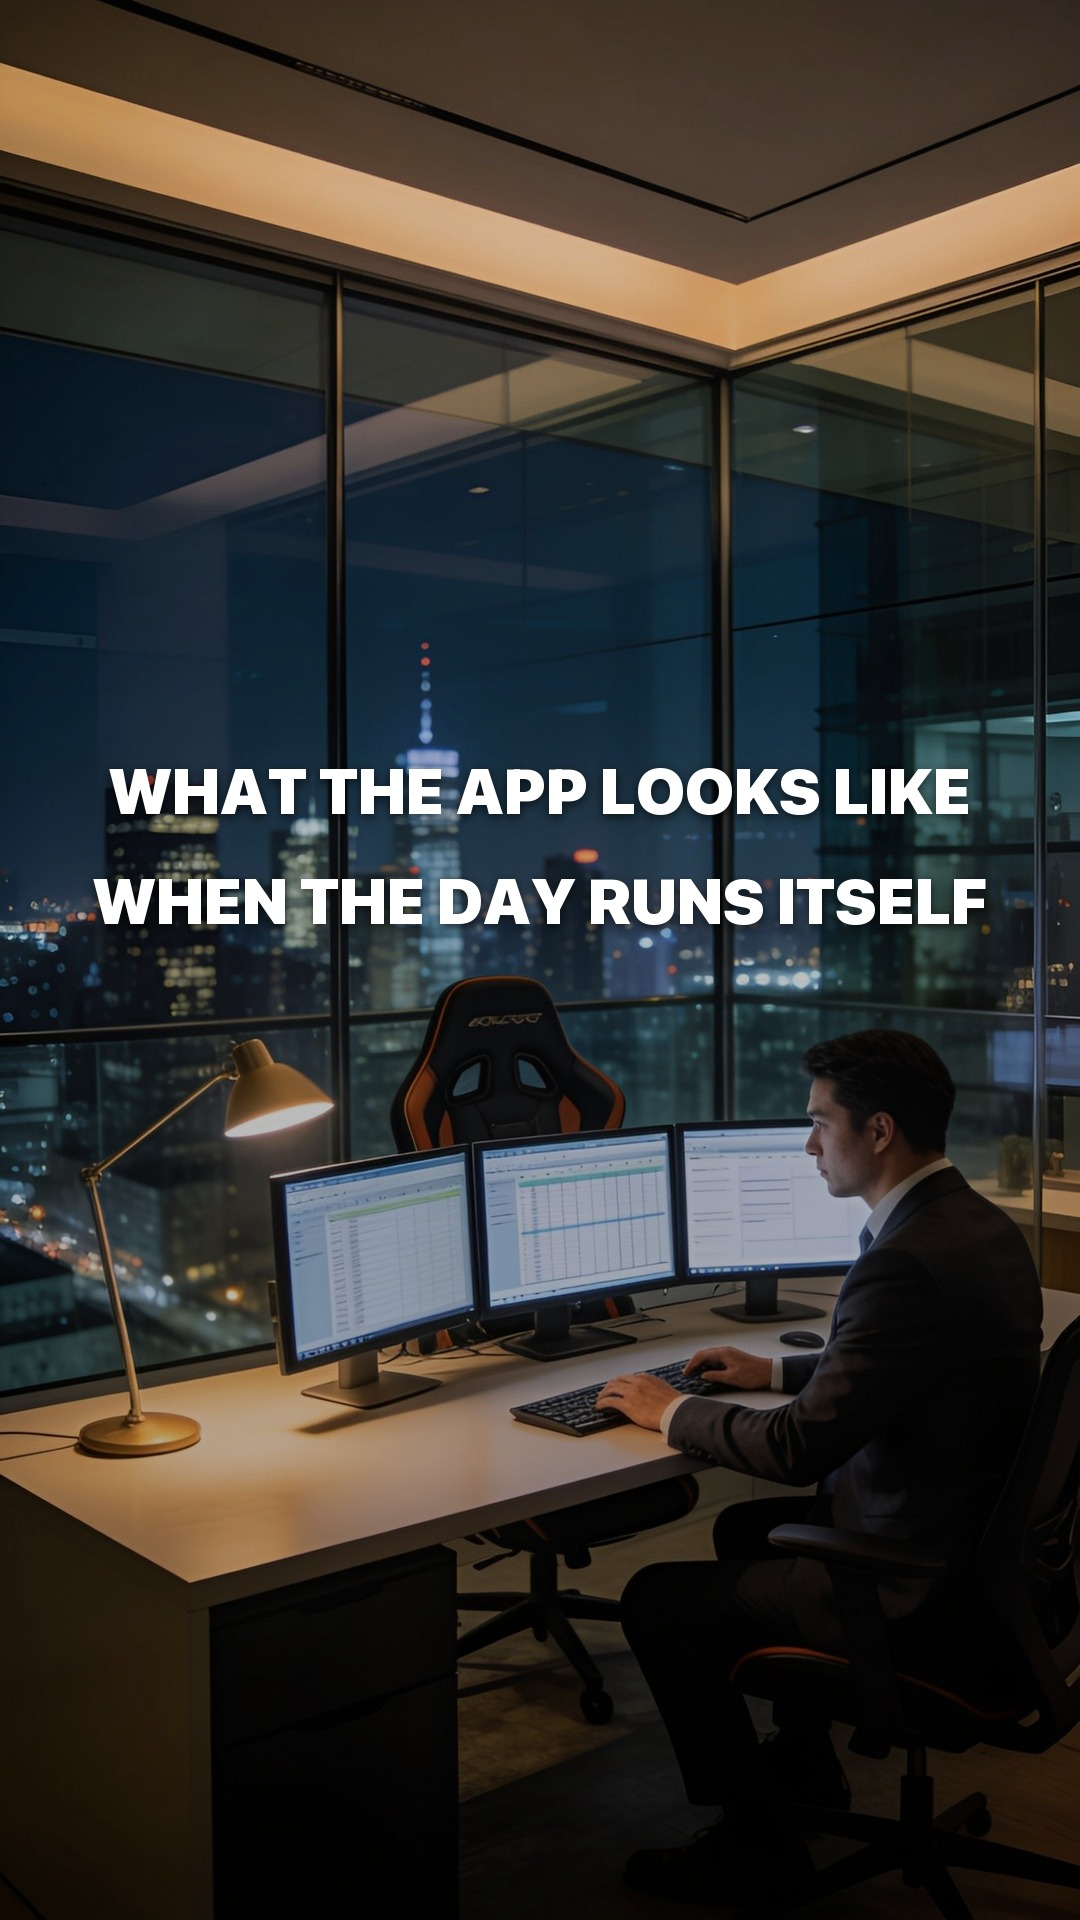
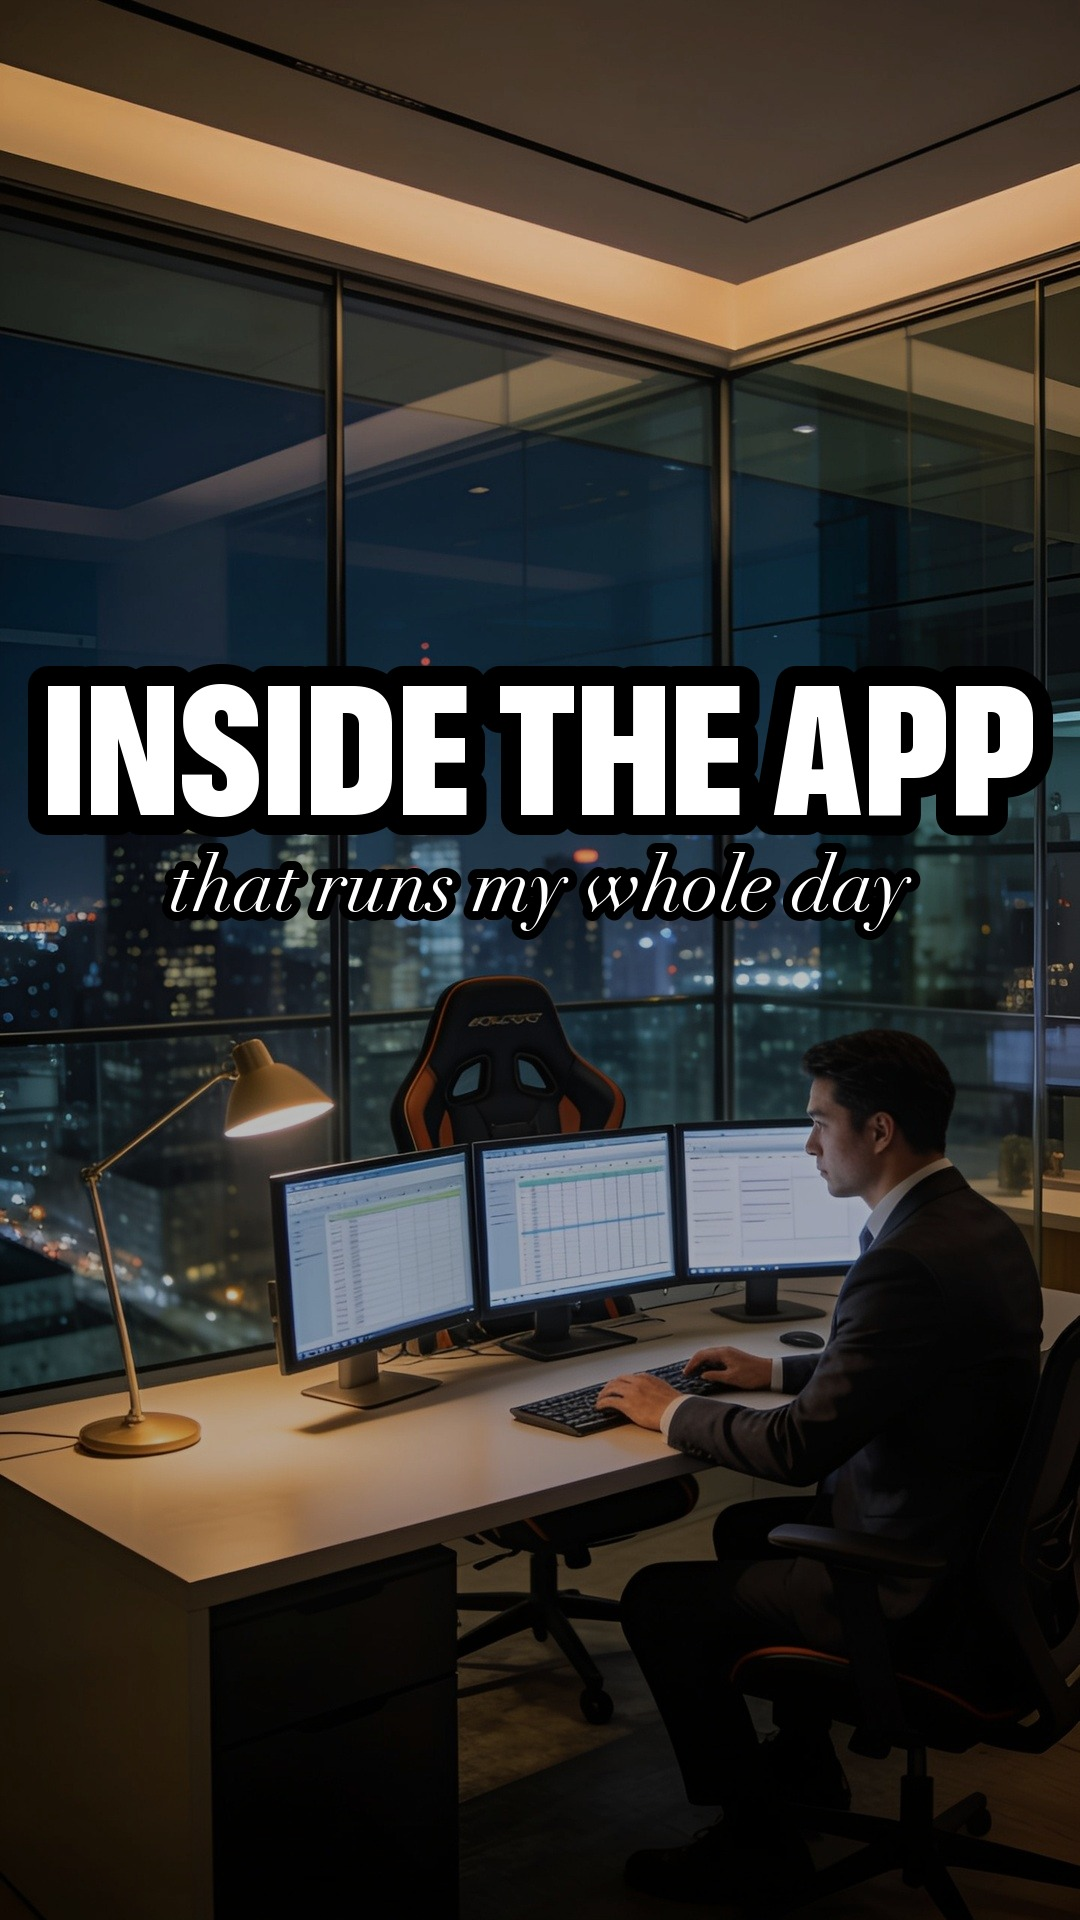
hooks: compressed display type, four rotating styles
SF Black is a UI weight and reads as a blown-up system label. Hooks now use
the Compressed/Condensed cuts with a heavy stroke, a hard size jump between
subject and qualifier, and an accent colour, in four rotating styles.

Claude-Session: https://claude.ai/code/session_018WcmYQJRQqBfrRpJzu76Jc

Changed region(s): [[0.0, 0.3438, 0.9778, 0.5]]

diff --git a/tools/compose.py b/tools/compose.py
@@ -1,3 +1,5 @@
+YELLOW = (255, 214, 10)
+WHITE = (255, 255, 255)
 #!/usr/bin/env python3
 """Slide-composition helpers for the TikTok pipeline (see the tiktok-pipeline skill).
 Backgrounds in tools/slides/bg (BANDS maps caption zones needing inpainting;
@@ -121,23 +123,102 @@ def base_photo(name, grad):
     gradient_darken(im, *grad)
     return im
 
-def hook_slide(bg, lines, out, grad=(0.85, 0.72, 300, 1300)):
-    """Hook text is UPPERCASE: the first slide has to stop a thumb, and
-    lowercase at this size reads as a caption rather than a headline."""
-    im = base_photo(bg, grad)
-    im = frame_for_band(im, 690, 1000)
-    adaptive_scrim(im, 690, 1000)
-    lines = [l.upper() for l in lines]
-    hf = fit_font(max(lines, key=len), 'Black', 80, max_width=900)
-    items = [(540, 790, lines[0], hf, 'mm', (255, 255, 255)),
-             (540, 900, lines[1], hf, 'mm', (255, 255, 255))]
-    draw_text_block(im, items)
-    im.save(out, quality=92)
-    print('wrote', out)
+# ---------------------------------------------------------------- hook slides
+#
+# The first slide has one job: stop a thumb. Flat one-size centred text does
+# not do that. Every style here uses the three things the best-performing
+# hooks share: a size jump between the subject and its qualifier, a heavy
+# black stroke so the words read on any photo, and a colour accent on the
+# part that carries the promise.
 
-# TikTok overlays its own UI on a photo post: search bar across the top ~12%,
-# caption and username across the bottom ~28%, action buttons down the right
-# ~15%. Copy therefore lives in the middle band, left of x=945.
+HOOK_STYLES = ('stack', 'highlight', 'boxed', 'serif')
+
+
+def _stroked(d, xy, text, f, fill, anchor, stroke=14, stroke_fill=(0, 0, 0)):
+    d.text(xy, text, font=f, fill=fill, anchor=anchor,
+           stroke_width=stroke, stroke_fill=stroke_fill)
+
+
+DIDOT = '/System/Library/Fonts/Supplemental/Didot.ttc'
+
+
+def display_font(size, variation='Compressed Black'):
+    """Heavy compressed display type.
+
+    SF's default Black is a UI weight: wide, evenly spaced, and it reads as a
+    system label blown up. The compressed cuts are the ones that look like
+    display type on a photo, which is what every high-performing hook uses.
+    """
+    f = ImageFont.truetype(SF, size)
+    f.set_variation_by_name(variation)
+    return f
+
+
+def serif_font(size, index=1):
+    return ImageFont.truetype(DIDOT, size, index=index)
+
+
+def _fit(text, variation, start, max_width=930, floor=40, maker=None):
+    maker = maker or (lambda sz: display_font(sz, variation))
+    size = start
+    probe = ImageDraw.Draw(Image.new('RGB', (1, 1)))
+    while size > floor:
+        f = maker(size)
+        if probe.textlength(text, font=f) <= max_width:
+            return f
+        size -= 3
+    return maker(floor)
+
+
+def hook_slide(bg, lines, out, grad=(0.85, 0.72, 300, 1300), style=None,
+               accent=YELLOW):
+    """lines[0] = the big subject, lines[1] = the smaller qualifier."""
+    im = base_photo(bg, grad)
+    im = frame_for_band(im, 690, 1060)
+    adaptive_scrim(im, 660, 1080, target=104)
+    if style is None:
+        style = HOOK_STYLES[sum(ord(c) for c in bg) % len(HOOK_STYLES)]
+    big, small = lines[0].upper(), lines[1]
+    d = ImageDraw.Draw(im)
+
+    # The subject runs edge to edge; the qualifier is roughly 40% of its
+    # height. That ratio is what makes the hook readable at thumb speed.
+    # Compressed display type, set large: the subject fills the width, the
+    # qualifier is roughly 40% of its height.
+    if style == 'stack':
+        fb = _fit(big, 'Compressed Black', 260, max_width=1000, floor=110)
+        fs = _fit(small.upper(), 'Condensed Bold', int(fb.size * 0.36), max_width=980)
+        _stroked(d, (540, 840), big, fb, WHITE, 'ms', stroke=20)
+        _stroked(d, (540, 862), small.upper(), fs, WHITE, 'ma', stroke=12)
+
+    elif style == 'highlight':
+        fb = _fit(big, 'Compressed Black', 250, max_width=1010, floor=104)
+        fs = _fit(small.upper(), 'Compressed Black', int(fb.size * 0.92),
+                  max_width=1010, floor=96)
+        _stroked(d, (540, 800), big, fb, WHITE, 'ms', stroke=20)
+        _stroked(d, (540, 812), small.upper(), fs, accent, 'ma', stroke=20)
+
+    elif style == 'boxed':
+        fb = _fit(big, 'Compressed Black', 260, max_width=1000, floor=110)
+        fs = _fit(small, 'Condensed Bold', int(fb.size * 0.32), max_width=860)
+        w = d.textlength(small, font=fs)
+        _stroked(d, (540, 828), big, fb, WHITE, 'ms', stroke=20)
+        pad, h = 32, int(fs.size * 1.5)
+        d.rounded_rectangle((540 - w / 2 - pad, 856, 540 + w / 2 + pad, 856 + h),
+                            radius=14, fill=accent)
+        d.text((540, 856 + h / 2), small, font=fs, fill=(10, 10, 10), anchor='mm')
+
+    else:  # serif — compressed sans subject over an elegant Didot qualifier
+        fb = _fit(big, 'Compressed Black', 265, max_width=1000, floor=112)
+        fs = _fit(small, None, int(fb.size * 0.42), max_width=950,
+                  maker=lambda sz: serif_font(sz))
+        _stroked(d, (540, 815), big, fb, WHITE, 'ms', stroke=20)
+        _stroked(d, (540, 838), small, fs, WHITE, 'ma', stroke=9)
+
+    im.save(out, quality=92)
+    print('wrote', out, f'[{style}]')
+
+
 def band_interest(im, y0, y1):
     """Std-dev of the copy band: how much is actually visible there."""
     g = im.convert('L').crop((0, y0, im.width, y1))
